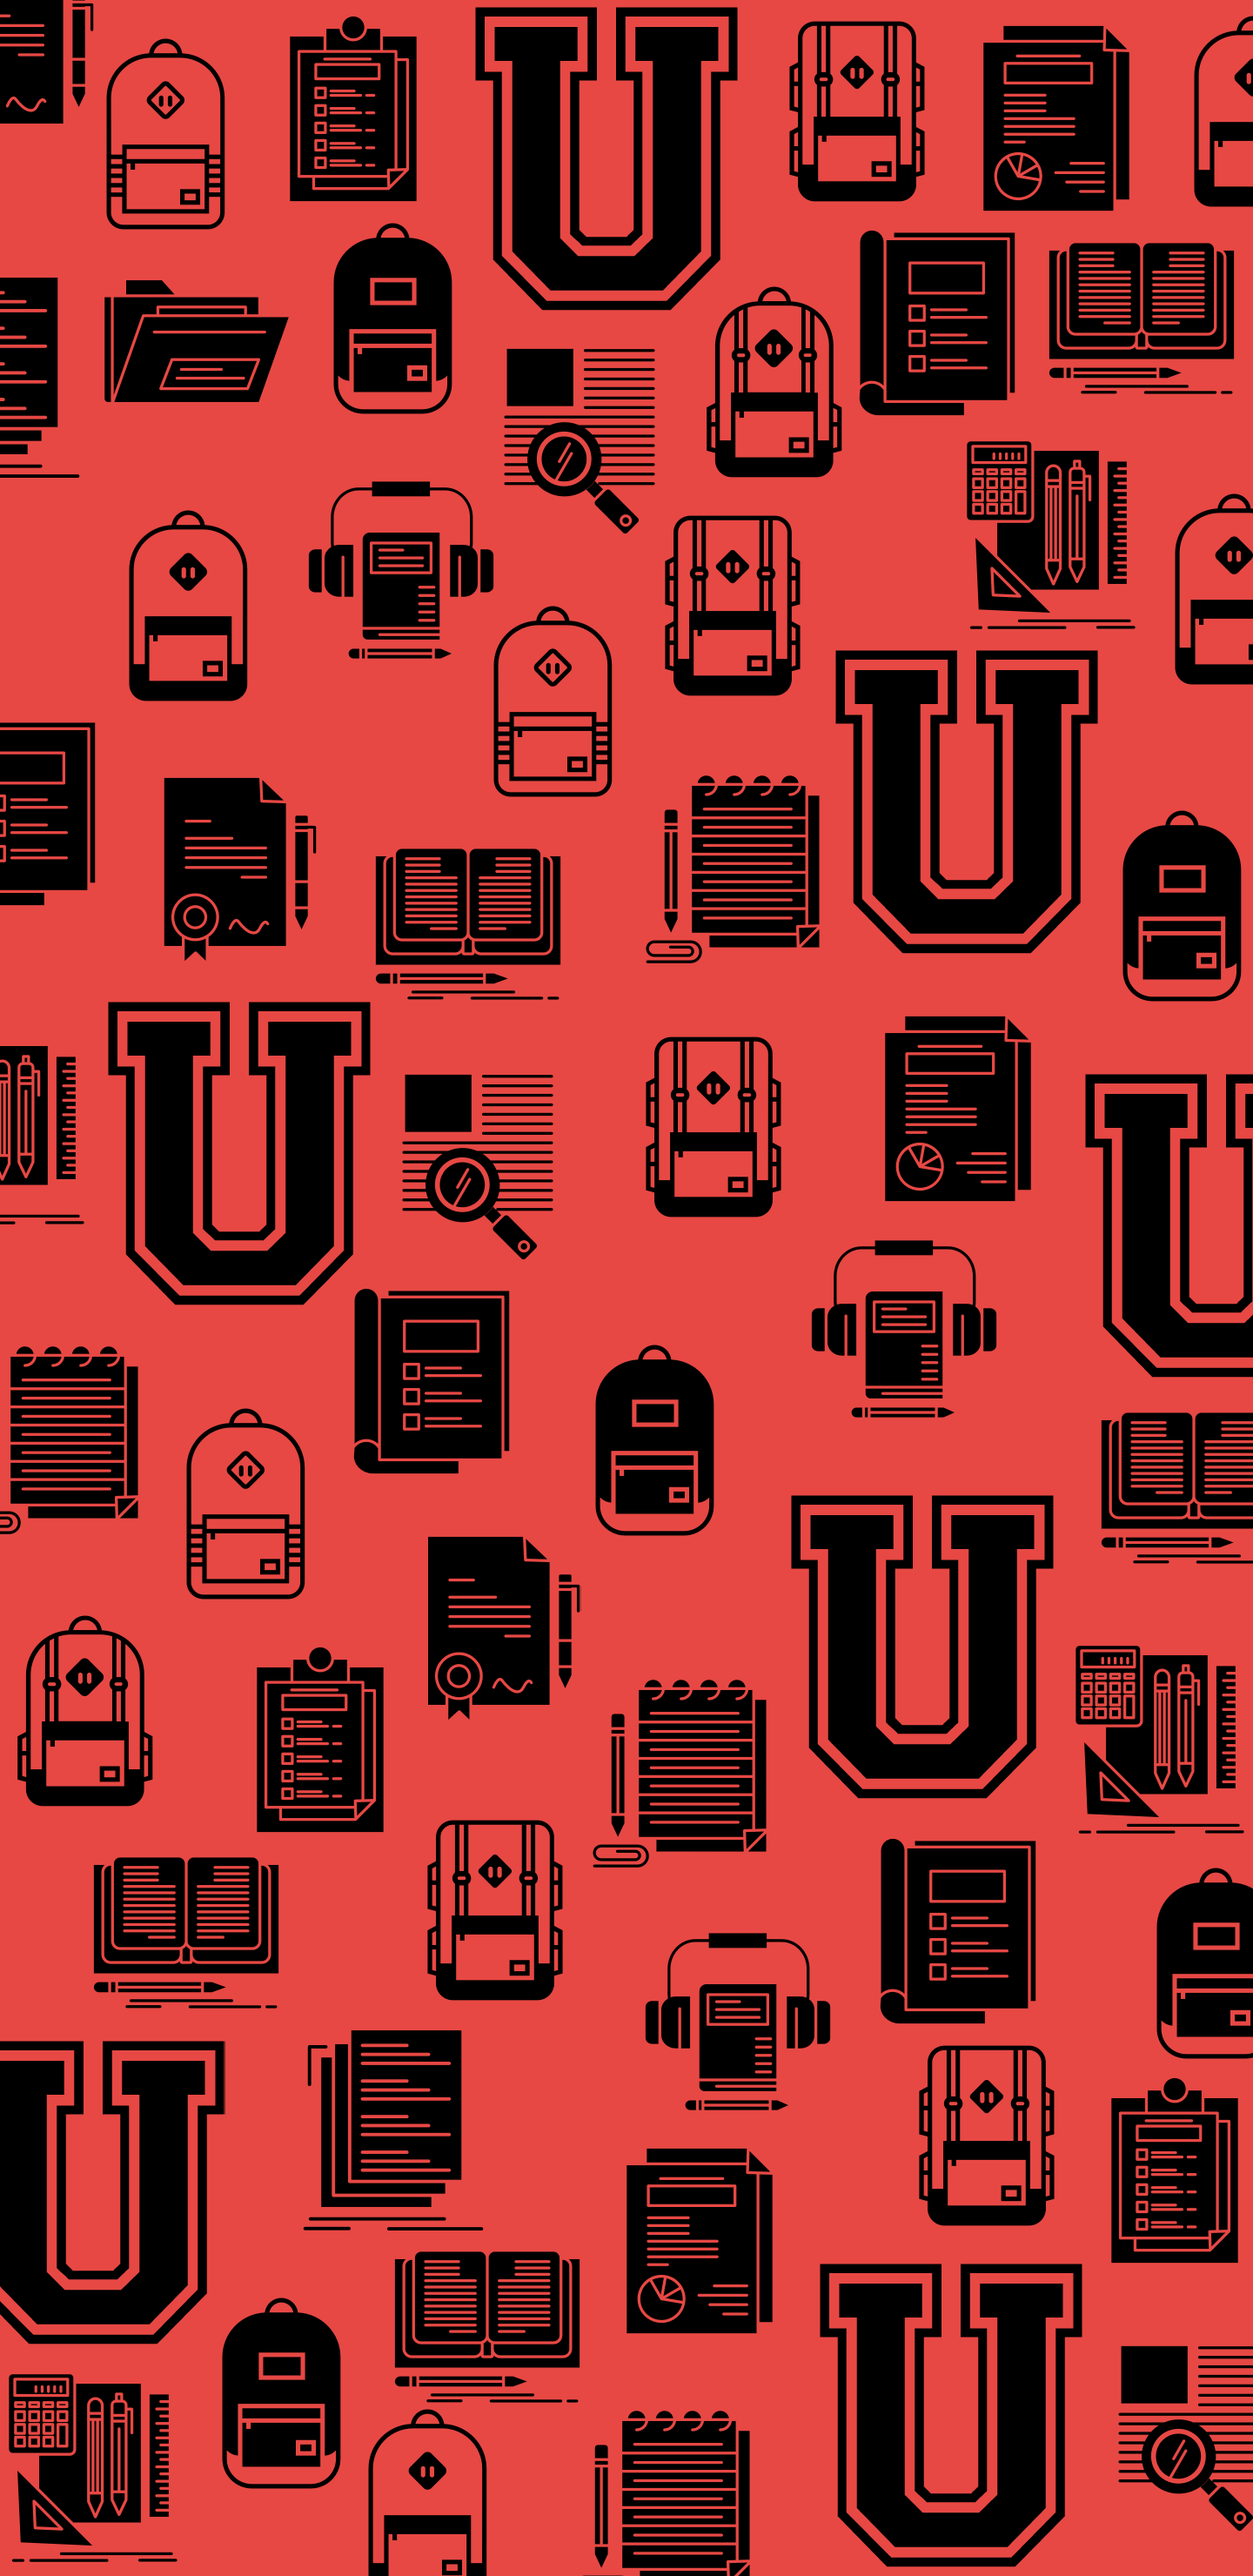
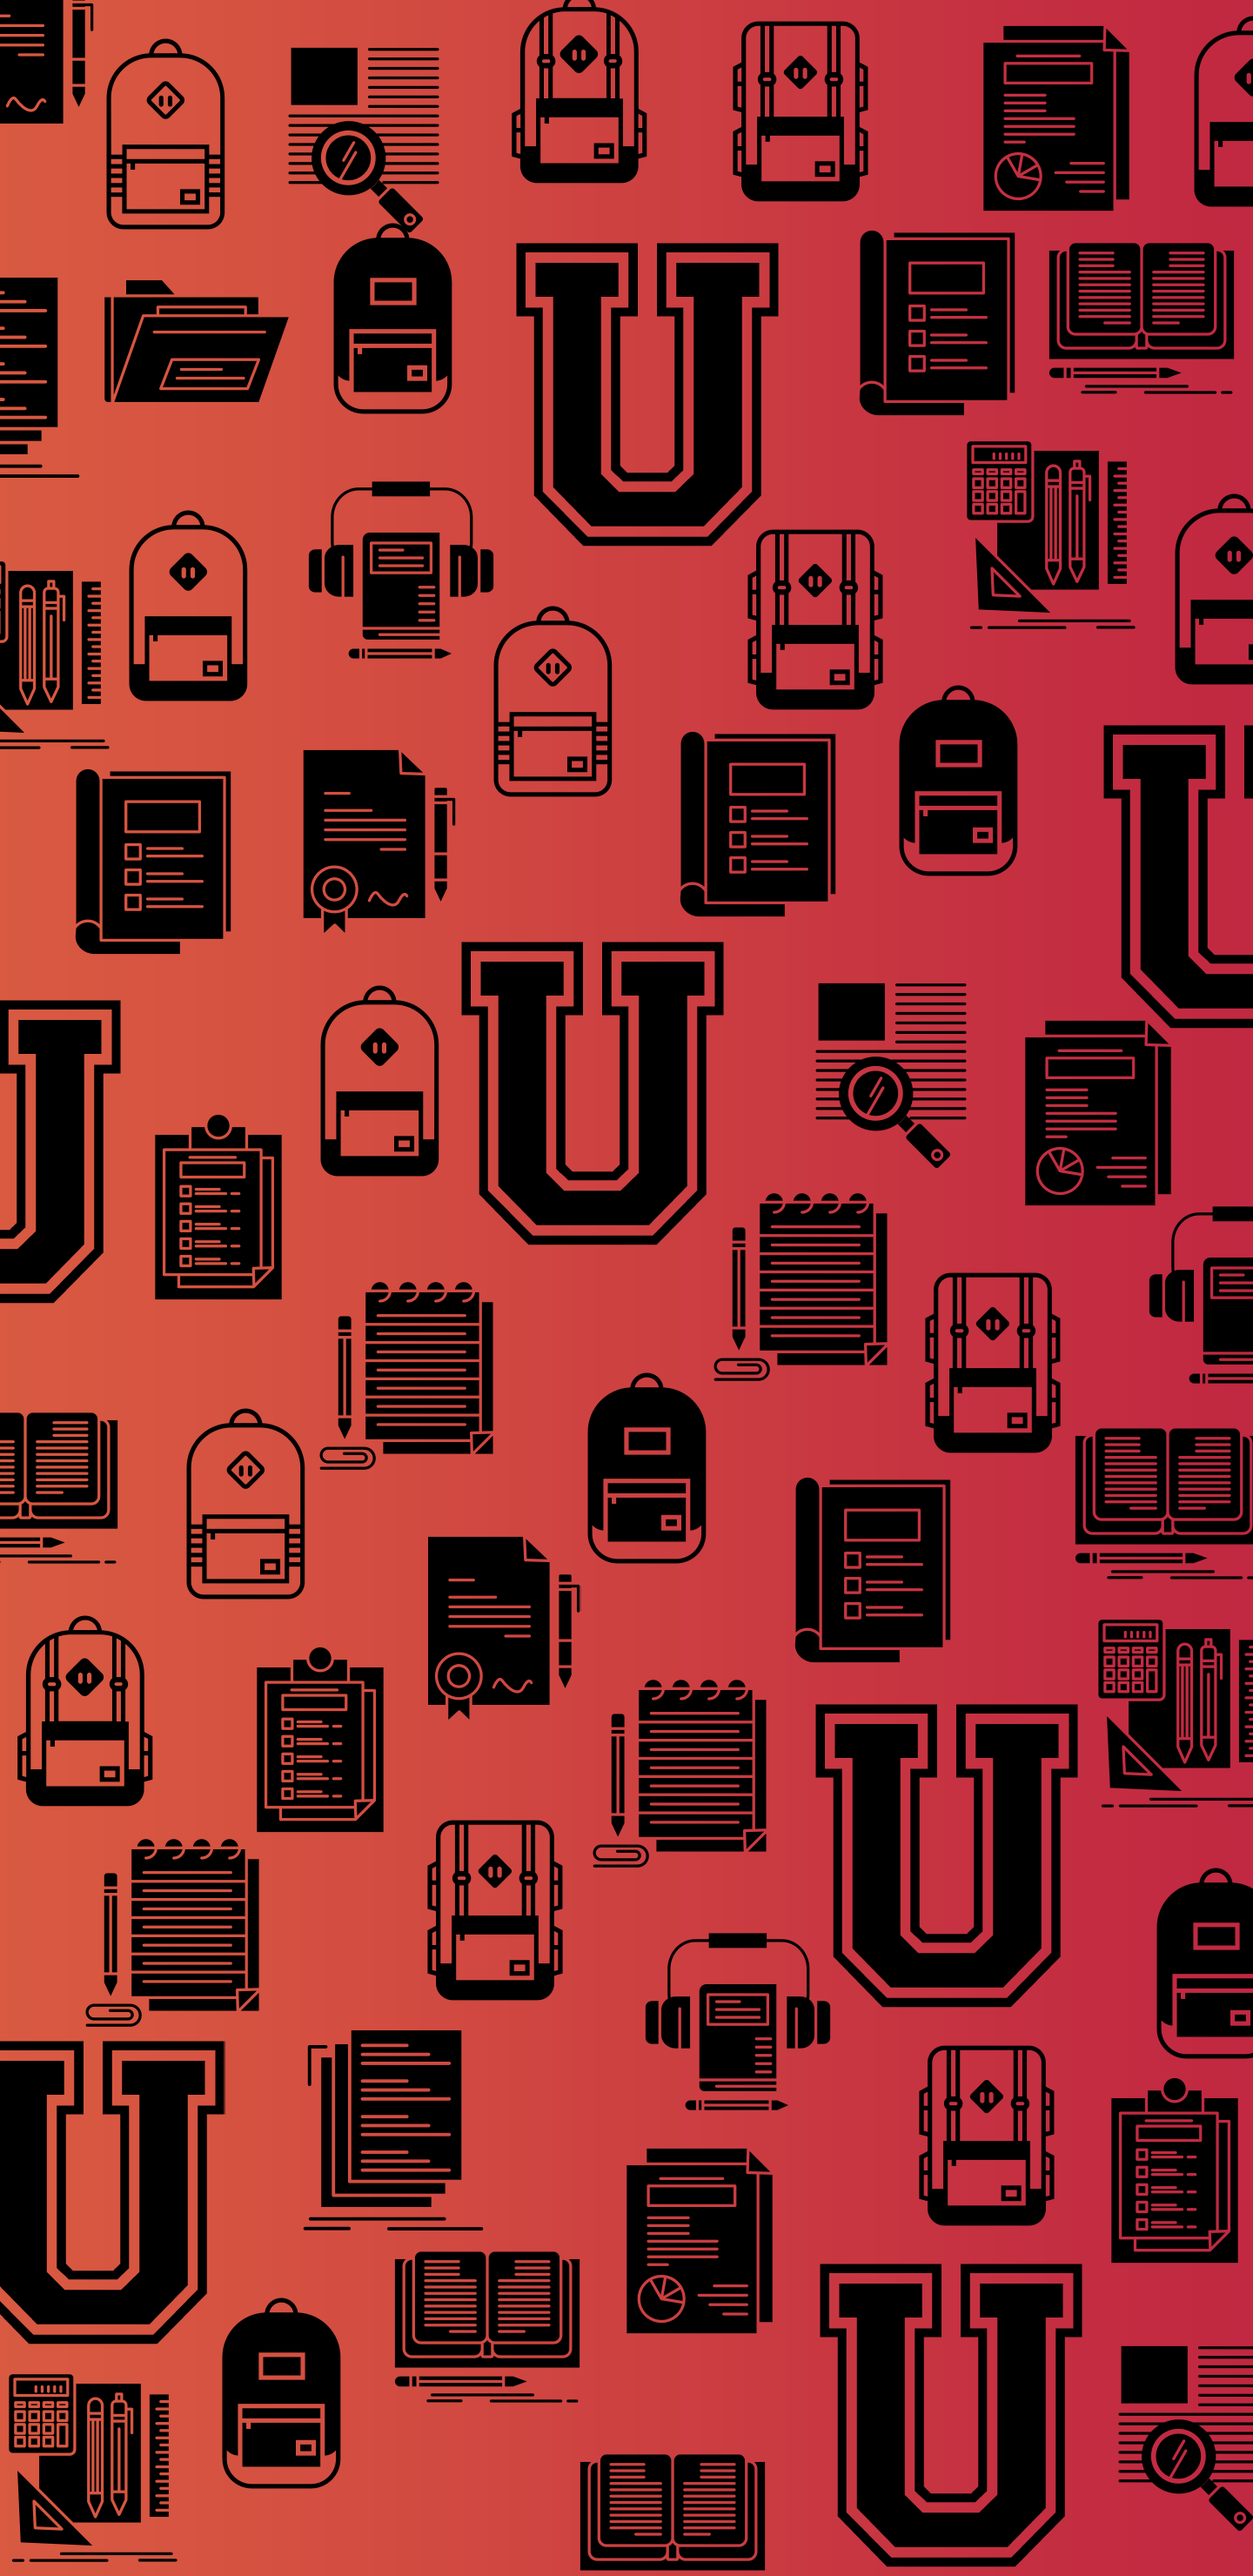
logica tema + salvataggio preferenza ok

diff --git a/front-end/app_client/univer_city_app_1_1/lib/routes/profilo.dart b/front-end/app_client/univer_city_app_1_1/lib/routes/profilo.dart
@@ -1,5 +1,6 @@
 import 'package:flutter/material.dart';
 import 'package:univer_city_app_1_1/elements/elements.dart';
+import 'package:univer_city_app_1_1/bloc/theme_bloc_provider.dart';
 
 final docTest = [
   Document('Telecomunicazioni', 'Cuomo', '550e8400-e29b-41d4-a716-446655440000',
@@ -44,6 +45,7 @@ class Profilo extends StatelessWidget {
       userName = 'userName';
   @override
   Widget build(BuildContext context) {
+    final ThemeBloc tBloc = ThemeBlocProvider.of(context);
     return Scaffold(
         body: CustomScrollView(
       slivers: <Widget>[
@@ -80,7 +82,7 @@ class Profilo extends StatelessWidget {
                             borderRadius:
                                 BorderRadius.all(new Radius.circular(100.0)),
                             border: new Border.all(
-                              color: Color(0xffd95a41),
+                              color: Theme.of(context).accentColor,
                               width: 4.0,
                             ),
                           ),
@@ -119,9 +121,9 @@ class Profilo extends StatelessWidget {
                             ),
                           ),
                           LinearProgressIndicator(
-                            value: 0.1,
-                            backgroundColor: Color(0x77d95a41),
-                          )
+                              value: 0.1,
+                              backgroundColor:
+                                  Theme.of(context).accentColor.withAlpha(77))
                         ],
                       ),
                     ),
@@ -155,7 +157,7 @@ class Profilo extends StatelessWidget {
                             ),
                             leading: Icon(
                               Icons.book,
-                              color: Color(0xffc02641),
+                              color: Theme.of(context).accentColor,
                             ),
                             subtitle: Text(
                                 '''\nLorem ipsum dolor sit amet, consectetur adipiscing elit, sed do eiusmod tempor incididunt ut labore et dolore magna aliqua. Ut enim ad minim veniam, quis nostrud exercitation ullamco laboris nisi ut aliquip ex ea commodo consequat. Duis aute irure dolor in reprehenderit in voluptate velit esse cillum dolore eu fugiat nulla pariatur. Excepteur sint occaecat cupidatat non proident, sunt in culpa qui officia deserunt mollit anim id est laborum
@@ -174,8 +176,8 @@ class Profilo extends StatelessWidget {
                               width: MediaQuery.of(context).size.width,
                               decoration: BoxDecoration(
                                   gradient: LinearGradient(colors: [
-                                Color(0xffd95a41),
-                                Color(0xffc02641),
+                                tBloc.firstColorGradient,
+                                Theme.of(context).accentColor,
                               ])),
                               child: Padding(
                                 padding: EdgeInsets.only(
@@ -195,7 +197,7 @@ class Profilo extends StatelessWidget {
                               .map((doc) => ListTile(
                                     leading: Icon(
                                       Icons.description,
-                                      color: Color(0xffc02641),
+                                      color: Theme.of(context).accentColor,
                                     ),
                                     title: Text(doc.title),
                                   ))
@@ -211,8 +213,8 @@ class Profilo extends StatelessWidget {
                               width: MediaQuery.of(context).size.width,
                               decoration: BoxDecoration(
                                   gradient: LinearGradient(colors: [
-                                Color(0xffd95a41),
-                                Color(0xffc02641),
+                                tBloc.firstColorGradient,
+                                Theme.of(context).accentColor,
                               ])),
                               child: Padding(
                                 padding: EdgeInsets.only(
@@ -232,7 +234,7 @@ class Profilo extends StatelessWidget {
                               .map((doc) => ListTile(
                                     leading: Icon(
                                       Icons.art_track,
-                                      color: Color(0xffc02641),
+                                      color: Theme.of(context).accentColor,
                                     ),
                                     title: Text(doc.title),
                                   ))
@@ -260,18 +262,26 @@ editBio(context) {
               mainAxisSize: MainAxisSize.min,
               children: <Widget>[
                 Text('Modifica la tua descrizione'),
-                SizedBox(height: 18,),
+                SizedBox(
+                  height: 18,
+                ),
                 TextField(
                   cursorColor: Theme.of(context).accentColor,
                   maxLines: 5,
                   decoration: InputDecoration(
-                    hintText: 'Inserisci la tua descrizione...',
-                    border: OutlineInputBorder(),
-                    focusedBorder: OutlineInputBorder(borderSide: BorderSide(color: Theme.of(context).accentColor))
-                  ),
+                      hintText: 'Inserisci la tua descrizione...',
+                      border: OutlineInputBorder(),
+                      focusedBorder: OutlineInputBorder(
+                          borderSide: BorderSide(
+                              color: Theme.of(context).accentColor))),
                 ),
-                SizedBox(height: 18,),
-                FlatButton.icon(onPressed: (){}, icon: Icon(Icons.edit), label: Text('SALVA'))
+                SizedBox(
+                  height: 18,
+                ),
+                FlatButton.icon(
+                    onPressed: () {},
+                    icon: Icon(Icons.edit),
+                    label: Text('SALVA'))
               ],
             ),
           )));

diff --git a/front-end/app_client/univer_city_app_1_1/lib/bloc/theme_bloc.dart b/front-end/app_client/univer_city_app_1_1/lib/bloc/theme_bloc.dart
@@ -1,19 +1,54 @@
 import 'package:rxdart/rxdart.dart';
+import 'package:flutter/material.dart';
+import 'package:shared_preferences/shared_preferences.dart';
+
 
 class ThemeBloc {
+ static int storedValue;
 
-  final BehaviorSubject<int> _themeIndex = BehaviorSubject<int>(seedValue: 0);
+  ThemeBloc(){
+    SharedPreferences.getInstance().then((SharedPreferences tm){
+      if(tm.getInt('themeIndex')==null){
+        print('init to 0');
+        storedValue = 0;
+      }else{
+        storedValue = tm.getInt('themeIndex');
+        print('read to stored value ${tm.getInt('themeIndex')} storedbloc $storedValue');
+      }
+    });
+  }
+
+  final BehaviorSubject<int> _themeIndex = BehaviorSubject<int>(seedValue: (storedValue==0)?0:1);
 
   Observable<int> get themeIndex => _themeIndex.stream;
   int get themeIndexValue => _themeIndex.value;
   Function get onChangedThemeIndex => _themeIndex.sink.add;
 
+  bool get state => themeIndexValue==0;
+
+  get firstColorGradient => state?Color(0xffd95a41):Color(0xff5ba8a0);
+
   change(){
     if(themeIndexValue==0){
       onChangedThemeIndex(1);
+      print('saving');
+      _save(1);
+      print('saved');
     }else{
       onChangedThemeIndex(0);
+      print('saving');
+      _save(0);
+      print('saved');
     }
+
+  }
+
+  _save(int value){
+    SharedPreferences.getInstance().then((SharedPreferences tm){
+      print('saving2');
+      tm.setInt('themeIndex', themeIndexValue);
+      print('saved2');
+    });
   }
 
   dispose(){

diff --git a/front-end/app_client/univer_city_app_1_1/lib/routes/login_scaffold.dart b/front-end/app_client/univer_city_app_1_1/lib/routes/login_scaffold.dart
@@ -1,5 +1,6 @@
 import 'package:flutter/material.dart';
 import 'package:univer_city_app_1_1/elements/elements.dart';
+import 'package:univer_city_app_1_1/bloc/theme_bloc_provider.dart';
 
 class LoginScaffold extends StatelessWidget {
   @override
@@ -11,6 +12,7 @@ class LoginScaffold extends StatelessWidget {
 
   /// body per il Login
   loginBody(context) {
+    ThemeBloc tBloc = ThemeBlocProvider.of(context);
     return Column(children: <Widget>[
       ///
       ///
@@ -21,7 +23,7 @@ class LoginScaffold extends StatelessWidget {
           flex: 2,
           child: Container(
             decoration: BoxDecoration(
-              image: DecorationImage(image: AssetImage('assets/img/sfondo_login3.png'), fit: BoxFit.fitWidth)
+              image: DecorationImage(image: AssetImage((tBloc.state)?'assets/img/sfondo_login.png':'assets/img/sfondo_login_dark.png'), fit: BoxFit.fitWidth)
             ),
             //color: Theme.of(context).scaffoldBackgroundColor,
           )),
@@ -35,7 +37,7 @@ class LoginScaffold extends StatelessWidget {
         child: SizedBox.expand(
             child: Container(
                 padding: EdgeInsets.only(top: 25),
-                decoration: boxBgeOmbra, // Applico sfondo bianco e ombra
+                decoration: boxBgeOmbra(Theme.of(context).backgroundColor), // Applico sfondo bianco e ombra
                 child: Column(
                   ///
                   ///Centro la colonna

diff --git a/front-end/app_client/univer_city_app_1_1/lib/routes/home.dart b/front-end/app_client/univer_city_app_1_1/lib/routes/home.dart
@@ -1,6 +1,7 @@
 import 'package:univer_city_app_1_1/elements/elements.dart';
 import 'package:univer_city_app_1_1/body_drawer/body_drawer.dart';
 import 'package:url_launcher/url_launcher.dart';
+import 'package:univer_city_app_1_1/bloc/theme_bloc_provider.dart';
 
 class HomeUniverCity extends StatefulWidget {
   final drawerEntry = [
@@ -57,6 +58,7 @@ class _HomeUniverCityState extends State<HomeUniverCity> {
 
   @override
   Widget build(BuildContext context) {
+    ThemeBloc tBloc = ThemeBlocProvider.of(context);
     ///
     ///Assemblo le entry nel drawer prendendo i valori in drawerEntry
     ///
@@ -111,13 +113,14 @@ class _HomeUniverCityState extends State<HomeUniverCity> {
               child: Text(
                 'UniverCity',
                 style: TextStyle(
-                  color: Color(0xFF262526),
+                  color: tBloc.state?Color(0xFF262526):Colors.white,
                   fontFamily: 'Collegiate',
                   fontSize: 32.0,
                 ),
               ),
             ),
             actions: (_selectedDrawerIndex == 4 || _selectedDrawerIndex == 3)?null:<Widget>[
+              Switch(value: tBloc.state, onChanged: (_){tBloc.change();}),
               IconButton(
                 icon: Icon(
                   Icons.search,

diff --git a/front-end/app_client/univer_city_app_1_1/lib/main.dart b/front-end/app_client/univer_city_app_1_1/lib/main.dart
@@ -41,14 +41,7 @@ class _UniverCityState extends State<UniverCity> {
         accentColor: Color(0xffc02641),//Color(0xFFE74844),//Colors.brown[800],
         fontFamily: 'Bahnschrift',
       ),
-      ThemeData(
-        scaffoldBackgroundColor: Colors.grey[100],//Colors.brown[100],
-        primaryColor: Colors.white,//Colors.cyan[900],
-        primaryColorDark: Colors.grey[400],
-        //cardColor: Colors.grey[500],
-        accentColor: Color(0xff290797),//Color(0xFFE74844),//Colors.brown[800],
-        fontFamily: 'Bahnschrift',
-      ),
+      ThemeData.dark(),
     ];
     final ThemeBloc tBlock = ThemeBlocProvider.of(context);
     return  StreamBuilder(

diff --git a/front-end/app_client/univer_city_app_1_1/lib/elements/box_decoration.dart b/front-end/app_client/univer_city_app_1_1/lib/elements/box_decoration.dart
@@ -7,6 +7,8 @@ import 'package:flutter/material.dart';
 ///  avere un ombra e uno sfondo bianco
 ///
 ///
-BoxDecoration boxBgeOmbra = BoxDecoration(color: Colors.white, boxShadow: [
-  BoxShadow(blurRadius: 4.0, color: Colors.black, offset: Offset(0.0, 0.0))
-]);
+BoxDecoration boxBgeOmbra(Color c){
+  return BoxDecoration(color: c, boxShadow: [
+    BoxShadow(blurRadius: 4.0, color: Colors.black, offset: Offset(0.0, 0.0))
+  ]);
+}

diff --git a/front-end/app_client/univer_city_app_1_1/lib/routes/complicated_form.dart b/front-end/app_client/univer_city_app_1_1/lib/routes/complicated_form.dart
@@ -13,7 +13,7 @@ class _CompFormScaffoldState extends State<CompFormScaffold> {
   Widget build(BuildContext context) {
     final CompFormBloc bloc = CompFormBlocProvider.of(context);
     return Scaffold(
-      backgroundColor: Colors.white,
+      backgroundColor: Theme.of(context).scaffoldBackgroundColor,
       body: Stack(children: <Widget>[
             ListView(
               children: <Widget>[

diff --git a/front-end/app_client/univer_city_app_1_1/lib/routes/login_form.dart b/front-end/app_client/univer_city_app_1_1/lib/routes/login_form.dart
@@ -7,7 +7,7 @@ class LoginFormScaffold extends StatelessWidget {
   Widget build(BuildContext context) {
     String _usem, _pw;
     return Scaffold(
-      backgroundColor: Colors.white,
+      backgroundColor: Theme.of(context).backgroundColor,
       body: Stack(children: <Widget>[
             Positioned(
                 left: 8,
